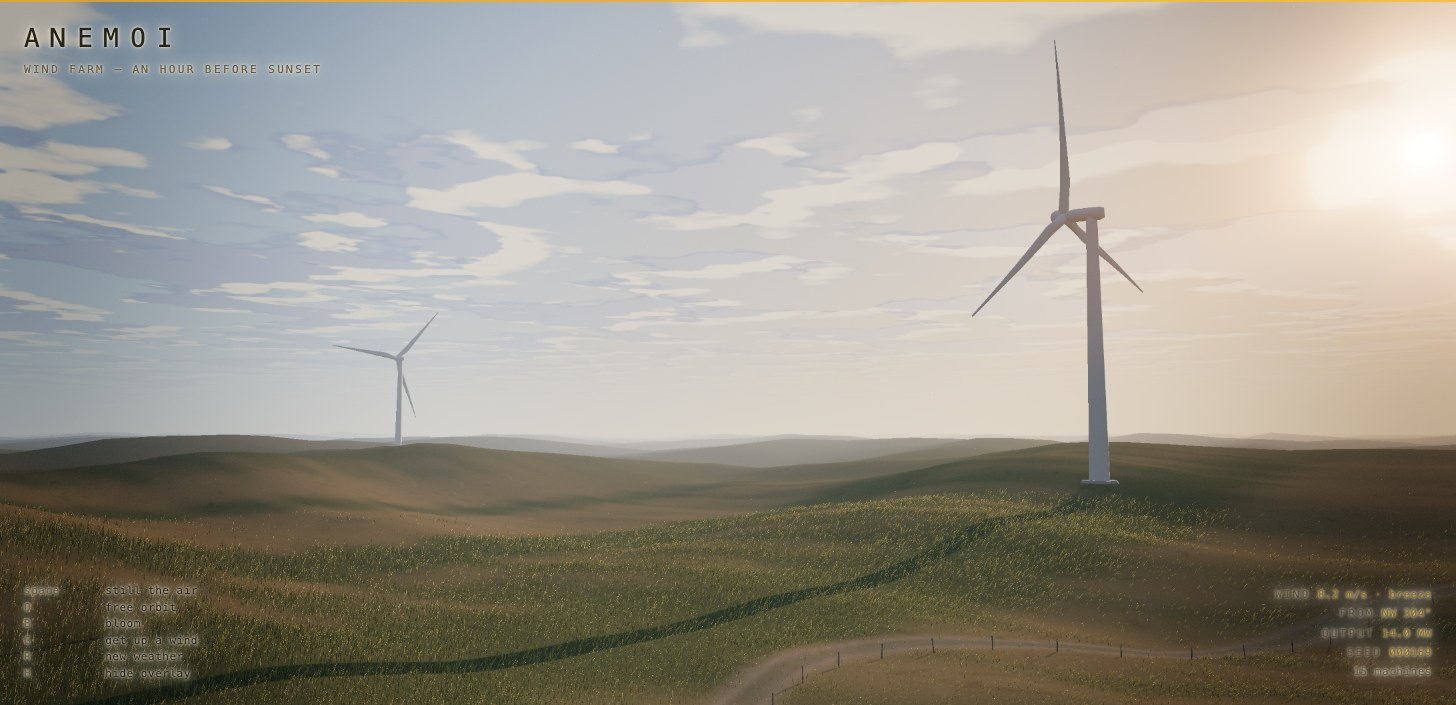
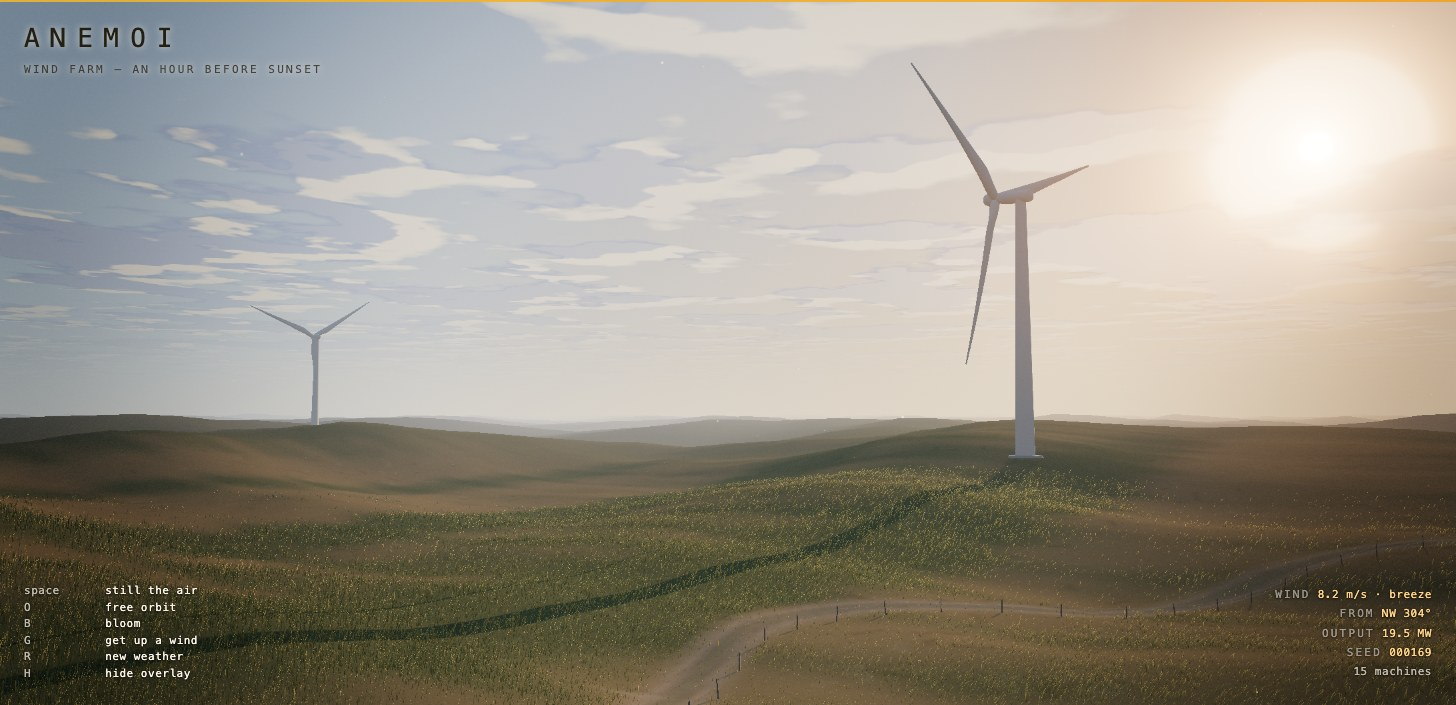
Fix Anemoi's load flash and the soft overlay text (#4)
* Fix the flash between the splash screen and the first frame

Loading showed a bright tan card, then a dark gap, then the scene. Measured
frame by frame at the canvas: the splash sat at (205,189,148), the next sample
was a near-black (35,32,25), and only then did the steppe appear.

Three causes, all in the hand-off:

- The splash was dropped after one rendered frame. The class change and the
  canvas swap are composited independently, so the fade could start a beat ahead
  of the picture it was uncovering, and what showed through the gap was the clear
  colour. It now waits for three frames on screen.
- Frame one was not a frame, it was twenty shader links. `compileAsync` before
  the loop starts means the first frame the splash uncovers is a real one.
- The splash colour was a bright saturated tan against a scene whose lower half
  is dark olive, so even a clean crossfade read as a flash. It is now the mean
  tone of a settled frame, and the clear colour matches it, so a half-drawn frame
  would show the landscape's own grey rather than black.

Measured after: the splash holds ~1.3 s while the world builds and the programs
link, then dissolves into a first frame of almost the same mean tone — 141 → 152
→ 159 across the hand-off, no dark step.

Also checked and *not* changed: intermittent all-black screenshots turned out to
be a capture artifact, not a rendered frame — the DOM overlay composites
[…]

diff --git a/windswept-turbine-field/index.html b/windswept-turbine-field/index.html
@@ -16,10 +16,17 @@
 
     <style>
       :root {
-        --ink: #2a2417;
-        --dim: #6a5c42;
-        --glow: #8a6a1c;
-        --field: #cdbd94;
+        /* Two inks, because the overlay sits on two different pictures — see the
+           note by the text-shadow rules below. */
+        --ink: #241f13;
+        --ink-dim: rgba(36, 31, 19, 0.74);
+        --paper: #fbf6ea;
+        --paper-dim: rgba(251, 246, 234, 0.72);
+        --glow: #ffd489;
+        /* The splash colour, and the page behind the canvas. Matched to the mean
+           tone of a settled frame so the hand-off to the scene is a dissolve
+           rather than a bright card being pulled away from a dark landscape. */
+        --field: #8d887f;
       }
 
       * {
@@ -54,21 +61,29 @@
         opacity: 0;
       }
 
-      /* The sky runs from bright cream at the horizon to deep blue overhead and
-         the ground goes dark against it, so every glyph carries its own halo
-         instead of picking one ink and hoping. */
-      .title,
-      .legend,
-      .stat {
-        text-shadow:
-          0 0 14px rgba(255, 246, 226, 0.92),
-          0 0 3px rgba(255, 246, 226, 0.92);
-      }
-
+      /* The overlay sits on two different pictures, and they do not move: the
+         title is always against sky, which measures around 160 in luminance
+         through the whole camera cycle, and the legend and readout are always
+         against near-field grass, which measures around 65. One ink cannot serve
+         both. The previous attempt used dark ink everywhere under a 14 px halo,
+         which meant the halo was doing all of the separating — and a glyph read
+         through its own glow is exactly what soft type looks like. Each block now
+         takes the ink its own background asks for, and the shadows are tight
+         enough to be an edge rather than a cloud. */
       .title {
         position: absolute;
         top: 24px;
         left: 24px;
+        color: var(--ink);
+        text-shadow: 0 0 7px rgba(255, 249, 235, 0.6);
+      }
+
+      .legend,
+      .stat {
+        color: var(--paper);
+        text-shadow:
+          0 1px 2px rgba(20, 15, 6, 0.9),
+          0 0 3px rgba(20, 15, 6, 0.65);
       }
 
       .title h1 {
@@ -80,7 +95,7 @@
 
       .title p {
         margin: 8px 0 0;
-        color: var(--dim);
+        color: var(--ink-dim);
         font-size: 11px;
         letter-spacing: 0.22em;
         text-transform: uppercase;
@@ -90,12 +105,12 @@
         position: absolute;
         left: 24px;
         bottom: 24px;
-        color: var(--dim);
+        color: var(--paper-dim);
         font-size: 11px;
       }
 
       .legend b {
-        color: var(--ink);
+        color: var(--paper);
         font-weight: 500;
       }
 
@@ -109,7 +124,7 @@
         right: 24px;
         bottom: 24px;
         text-align: right;
-        color: var(--dim);
+        color: var(--paper-dim);
         font-size: 11px;
         line-height: 1.75;
       }
@@ -136,7 +151,7 @@
         gap: 14px;
         justify-items: center;
         background: var(--field);
-        color: var(--dim);
+        color: var(--ink);
         font-size: 11px;
         letter-spacing: 0.3em;
         text-transform: uppercase;

diff --git a/windswept-turbine-field/src/main.js b/windswept-turbine-field/src/main.js
@@ -40,6 +40,10 @@ const pixelRatio = () => THREE.MathUtils.clamp(window.devicePixelRatio, MIN_PIXE
 const renderer = new THREE.WebGLRenderer({ powerPreference: "high-performance" });
 renderer.setSize(window.innerWidth, window.innerHeight);
 renderer.setPixelRatio(pixelRatio());
+// The sky dome covers every pixel, so this is never seen in a finished frame —
+// it is what shows if one is ever presented half-drawn, and black is the one
+// colour that reads as a fault. Matched to the splash screen behind the canvas.
+renderer.setClearColor(0x8d887f, 1);
 renderer.outputColorSpace = THREE.SRGBColorSpace;
 renderer.toneMapping = THREE.ACESFilmicToneMapping;
 renderer.toneMappingExposure = 0.92;
@@ -229,11 +233,22 @@ window.addEventListener("resize", onResize);
 
 // -------------------------------------------------------------------- loop --
 
+// Link every program in the scene before the first frame is asked for.
+// Otherwise frame one is not a frame, it is twenty shader links, and the boot
+// screen begins fading over a canvas that has nothing in it yet — which is a
+// flash of the clear colour between the splash and the steppe.
+await renderer.compileAsync(scene, camera).catch(() => {});
+
 const timer = new THREE.Timer();
 timer.setTimescale(REDUCED_MOTION ? 0.35 : 1);
 let elapsed = 0;
-let booted = false;
+let framesDrawn = 0;
 let readoutDue = 0;
+
+// Frames to get on screen before the splash is allowed to fade. One is not
+// enough: the class change and the canvas swap are composited independently, so
+// the fade can start a beat ahead of the picture it is uncovering.
+const BOOT_FRAMES = 3;
 
 renderer.setAnimationLoop(() => {
   // Clamp so a backgrounded tab does not resume with a huge time step — which
@@ -260,8 +275,8 @@ renderer.setAnimationLoop(() => {
     readoutDue = 0.2;
   }
 
-  if (!booted) {
-    booted = true;
+  framesDrawn++;
+  if (framesDrawn === BOOT_FRAMES) {
     ui.boot.classList.add("gone");
     setTimeout(() => ui.boot.remove(), 1200);
   }

diff --git a/windswept-turbine-field/README.md b/windswept-turbine-field/README.md
@@ -98,9 +98,14 @@ so `http://localhost:8777/windswept-turbine-field/?seed=a1` always cuts the same
 - **The crepuscular rays are a radial blur of what is already on screen**, thresholded above white
   and marched back toward the sun's projected position. Nothing about them is animated: a rotor
   blade crossing the sun cuts them because it cut the pixels they are built from.
+- **The overlay takes two inks, because it sits on two pictures.** The title is always against sky,
+  which measures around 160 in luminance through the whole camera cycle; the legend and the readout
+  are always against near-field grass, which measures around 65. Dark ink everywhere under a wide
+  halo meant the halo was doing all the separating, and a glyph read through its own glow is what
+  soft type looks like.
 - `prefers-reduced-motion` slows the whole simulation to 35% rather than freezing it.
 
-### Two things that cost an afternoon
+### Three things that cost an afternoon
 
 - **`UnrealBloomPass` cannot run against a multisampled composer buffer.** Grass a pixel wide is
   exactly what MSAA is for, so the composer was handed a target with `samples: 4`; the frame came
@@ -111,6 +116,13 @@ so `http://localhost:8777/windswept-turbine-field/?seed=a1` always cuts the same
 - **Do not call `bloom.setSize()` after `composer.setSize()`.** The composer takes CSS pixels and
   already forwards drawing-buffer pixels to every pass; calling the pass again with CSS pixels halves
   its mip chain and the composite comes back black. It looks like defensive tidiness and it is a bug.
+- **The splash screen has to outlast the first frame, and it has to be the right colour.** Dropping
+  it after one rendered frame flashes: the class change and the canvas swap are composited
+  independently, so the fade can start a beat ahead of the picture it is uncovering, and what shows
+  through the gap is the clear colour. Three things together fix it — `compileAsync` so frame one is
+  a frame rather than twenty shader links, three frames on screen before the fade is allowed to
+  start, and a splash colour matched to the mean tone of a settled frame so the hand-off is a
+  dissolve rather than a bright card pulled away from a dark landscape.
 
 ### Skills referenced
 
@@ -133,3 +145,7 @@ Runs in Chrome at 1486×783, holding ~93 fps against a 120 Hz display with 220 0
 ~1.8 M triangles a frame. All six keys were exercised. `renderer.info.memory` holds at 11 geometries
 and 18 textures across eighteen consecutive recuts, and the program cache settles at 23 rather than
 growing, so the disposal path doesn't leak.
+
+The load path was measured frame by frame: the splash holds for about 1.3 s while the world is built
+and the programs are linked, then dissolves into a first frame of almost the same mean tone — 141 →
+152 → 159 across the hand-off, with no dark step in between.
